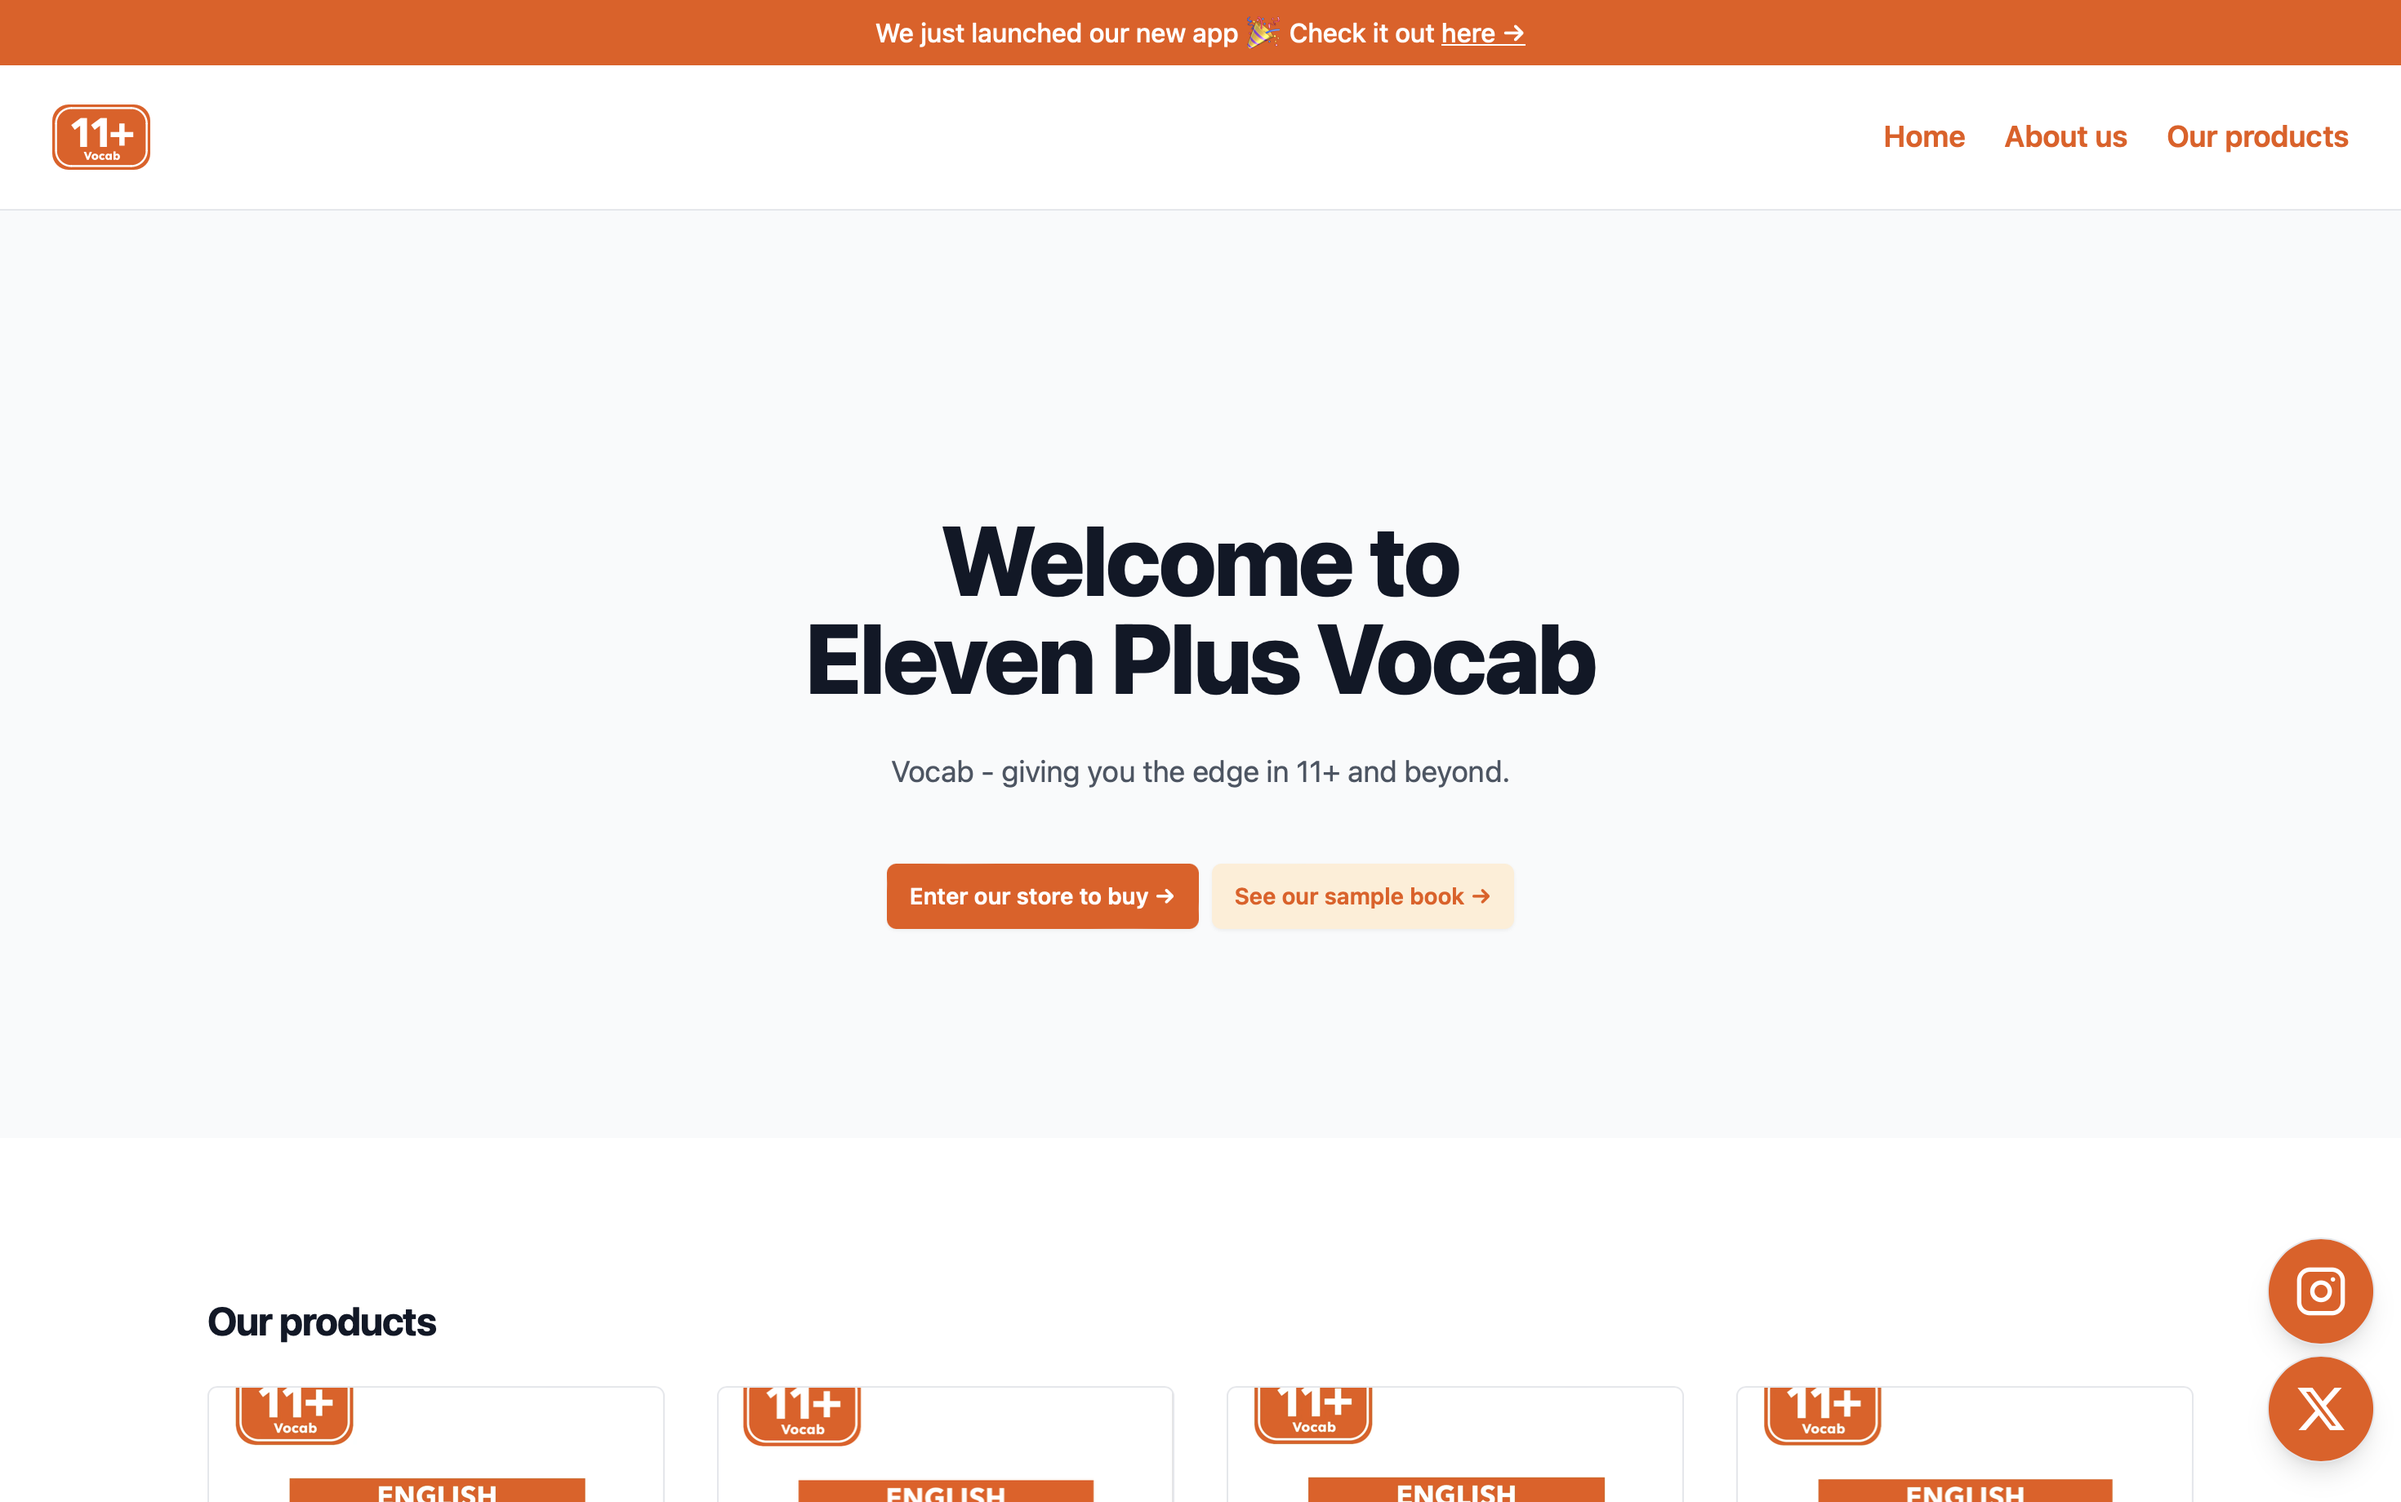
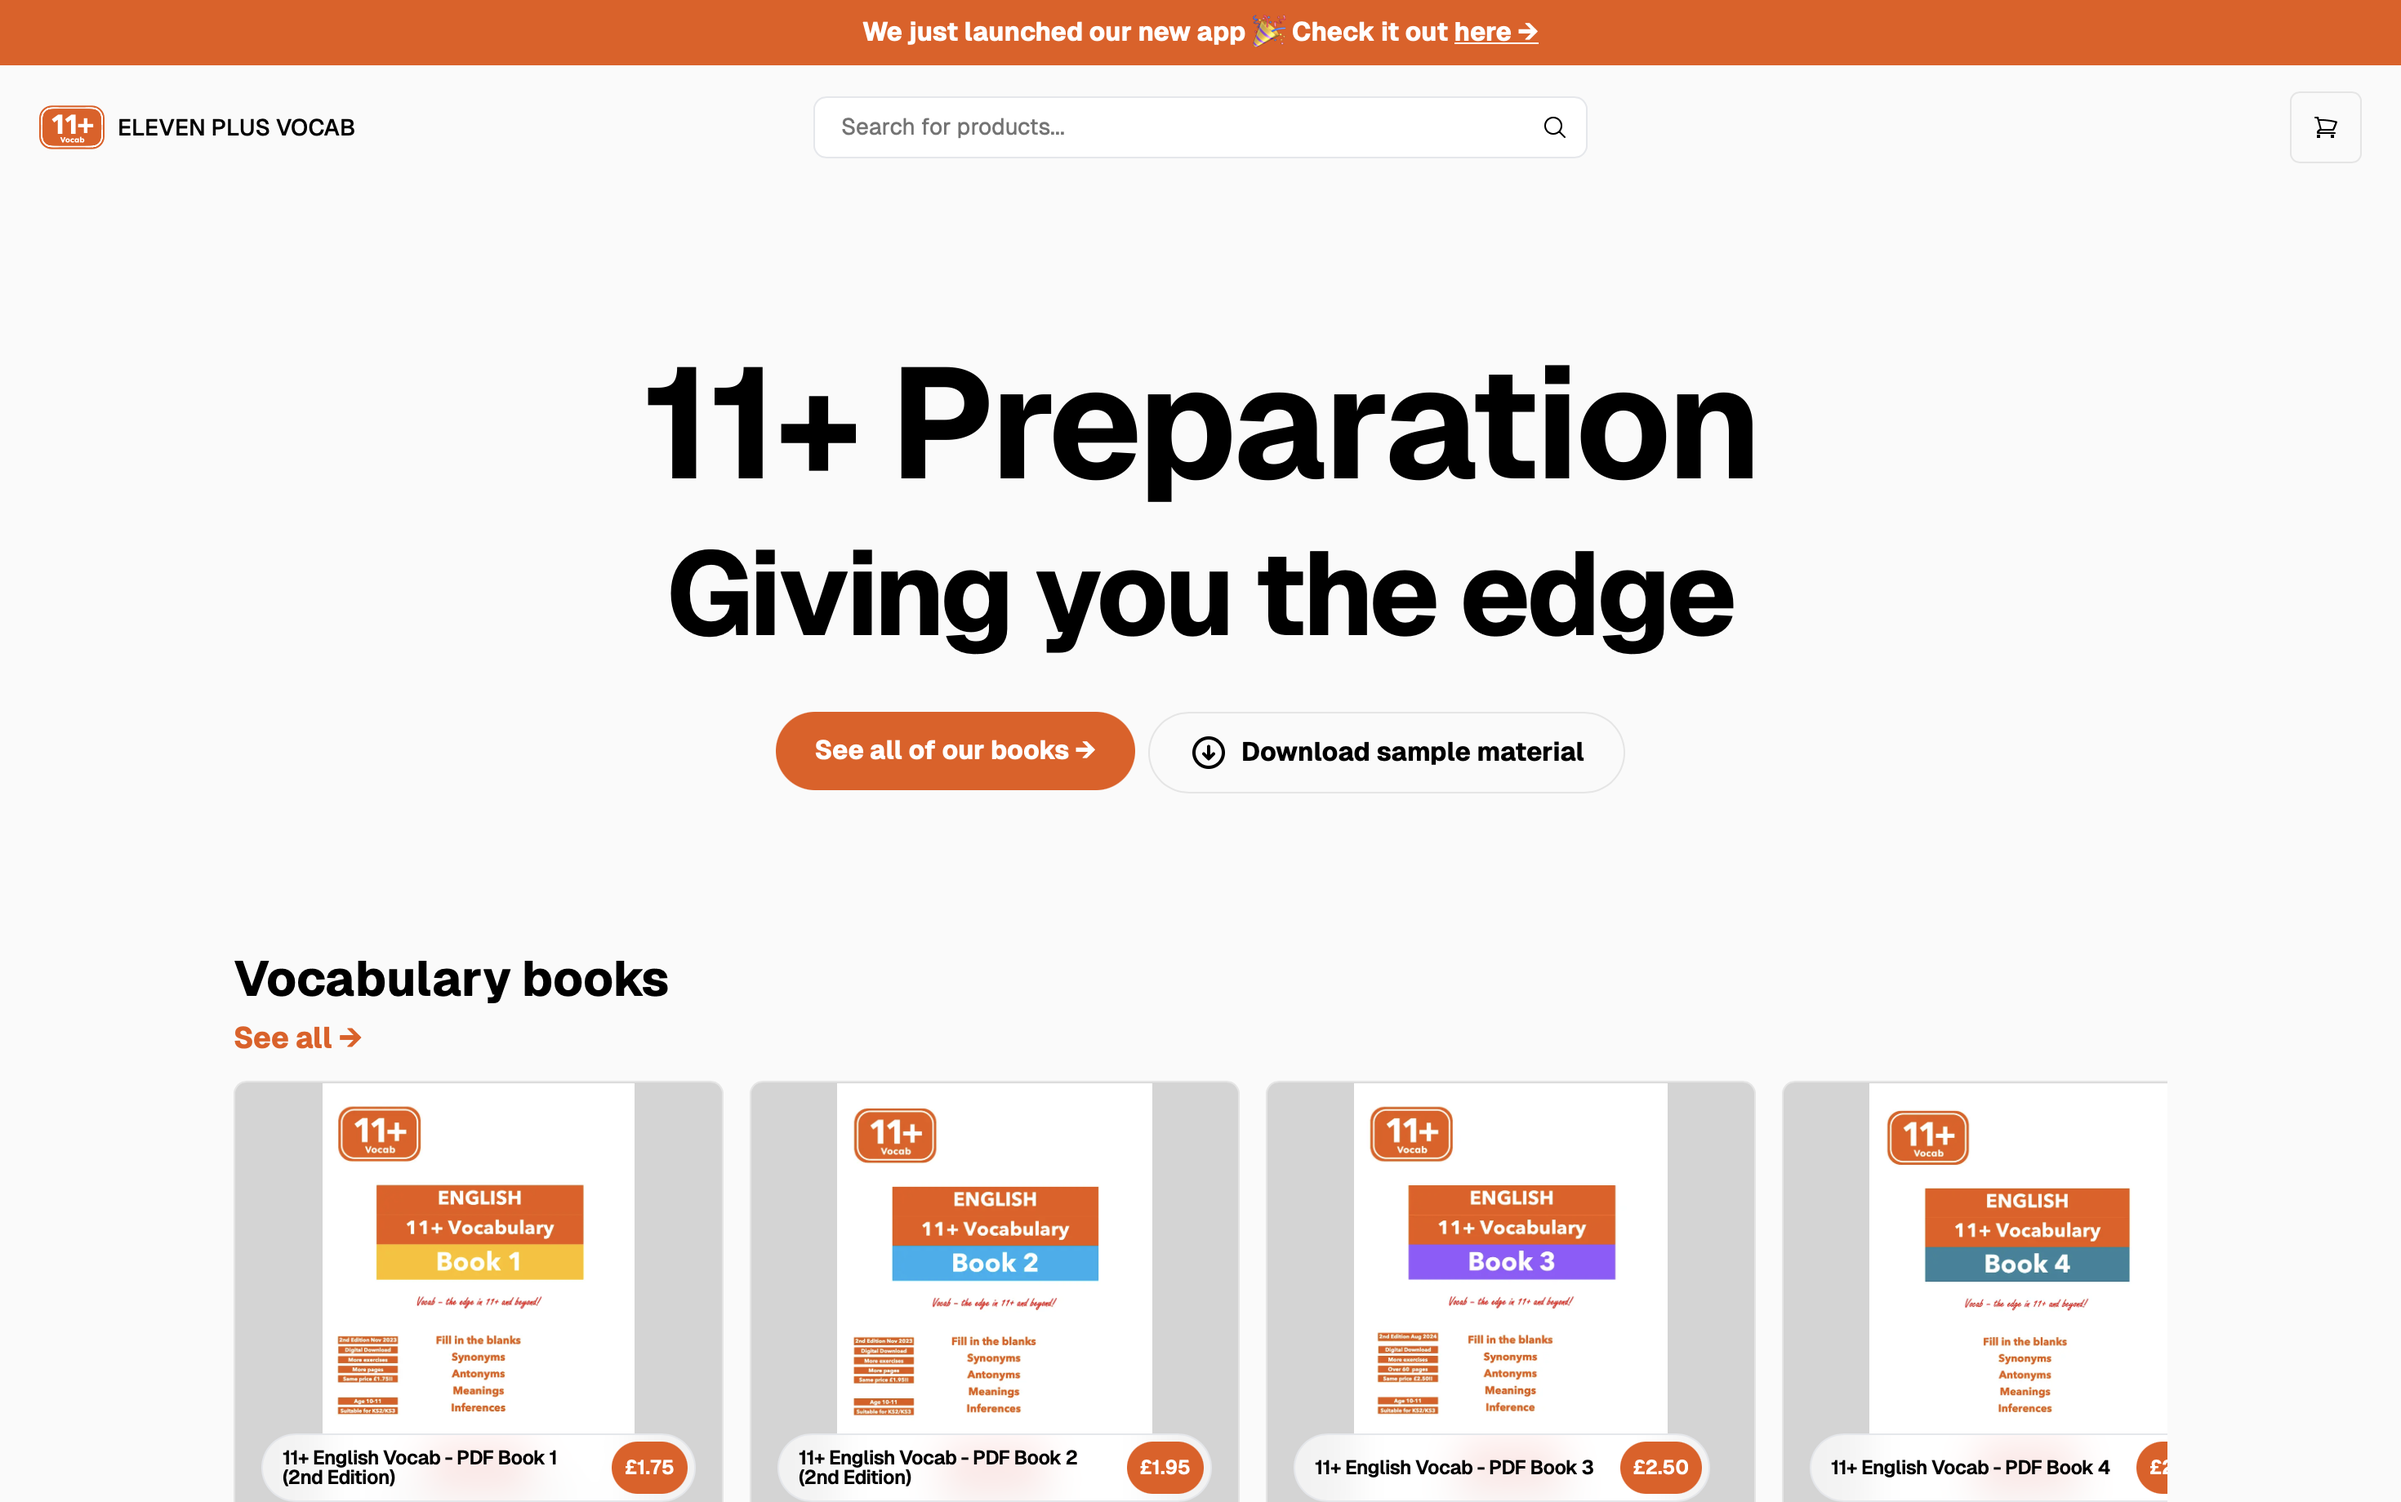
update screenshot and description for eleven plus vocab, fix email

diff --git a/src/pages/components/PortfolioSection.js b/src/pages/components/PortfolioSection.js
@@ -70,7 +70,7 @@ const PortfolioSection = () => {
     { 
       image: "epv.png", 
       title: 'Eleven Plus Vocab', 
-      description: 'I designed and developed this landing page for Eleven Plus Vocab, a family business. The page was built using vanilla HTML, CSS, and JavaScript, as it was a straightforward landing page without complex features.',
+      description: 'I designed and developed this fully featured storefront for Eleven Plus Vocab. The page was built using Next.js and the Shopify API, allowing users to purchase books and resources for 11+ exam preparation.',
       link: 'https://elevenplusvocab.com'
     },
     { 
@@ -82,7 +82,7 @@ const PortfolioSection = () => {
     { 
       image: "smurfs.png", 
       title: 'Naomi Murphy\'s Website', 
-      description: 'I designed and developed a landing page for Naomi Murphy to promote her services as a singing coach. This site was built using vanilla HTML, CSS, and JavaScript, similar to the Eleven Plus Vocab website.',
+      description: 'I designed and developed a landing page for Naomi Murphy to promote her services as a singing coach. This site was built using vanilla HTML, CSS, and JavaScript.',
       link: 'https://naomimurphy.vercel.app'
     },
     { 

diff --git a/src/pages/projects.js b/src/pages/projects.js
@@ -68,9 +68,9 @@ const Projects = () => {
 
   const projects = [
     { 
-      image: "epv.png", 
+      image: "epv2.png", 
       title: 'Eleven Plus Vocab', 
-      description: 'I designed and developed this landing page for Eleven Plus Vocab, a family business. The page was built using vanilla HTML, CSS, and JavaScript, as it was a straightforward landing page without complex features.',
+      description: 'I designed and developed the storefront for Eleven Plus Vocab, a family business. The page was built using Next.js and the Shopify API.',
       link: 'https://elevenplusvocab.com'
     },
     { 

diff --git a/src/pages/components/Contact.js b/src/pages/components/Contact.js
@@ -18,7 +18,7 @@ const Contact = () => {
             Linkedin: sidcraftscode →
           </a>
           <a href="mailto:hi@sidcrafts.com" className="block text-xl font-medium tracking-tight text-white hover:underline">
-            Email: sidcraftscode →
+            Email: hi@sidcrafts.com →
           </a>
           <br></br>
           <a href="https://github.com/sidcraftscode" className="font-bold text-purple-500 block text-xl font-medium tracking-tight hover:underline">

diff --git a/src/pages/_document.js b/src/pages/_document.js
@@ -7,7 +7,7 @@ export default function Document() {
         <link rel="preconnect" href="https://rsms.me/"/>
         <link rel="stylesheet" href="https://rsms.me/inter/inter.css"/>
       </Head>
-      <body class="bg-black">
+      <body className="bg-black">
         <div className="border-t-8 border-purple-500">
         <Main />
         <NextScript />
